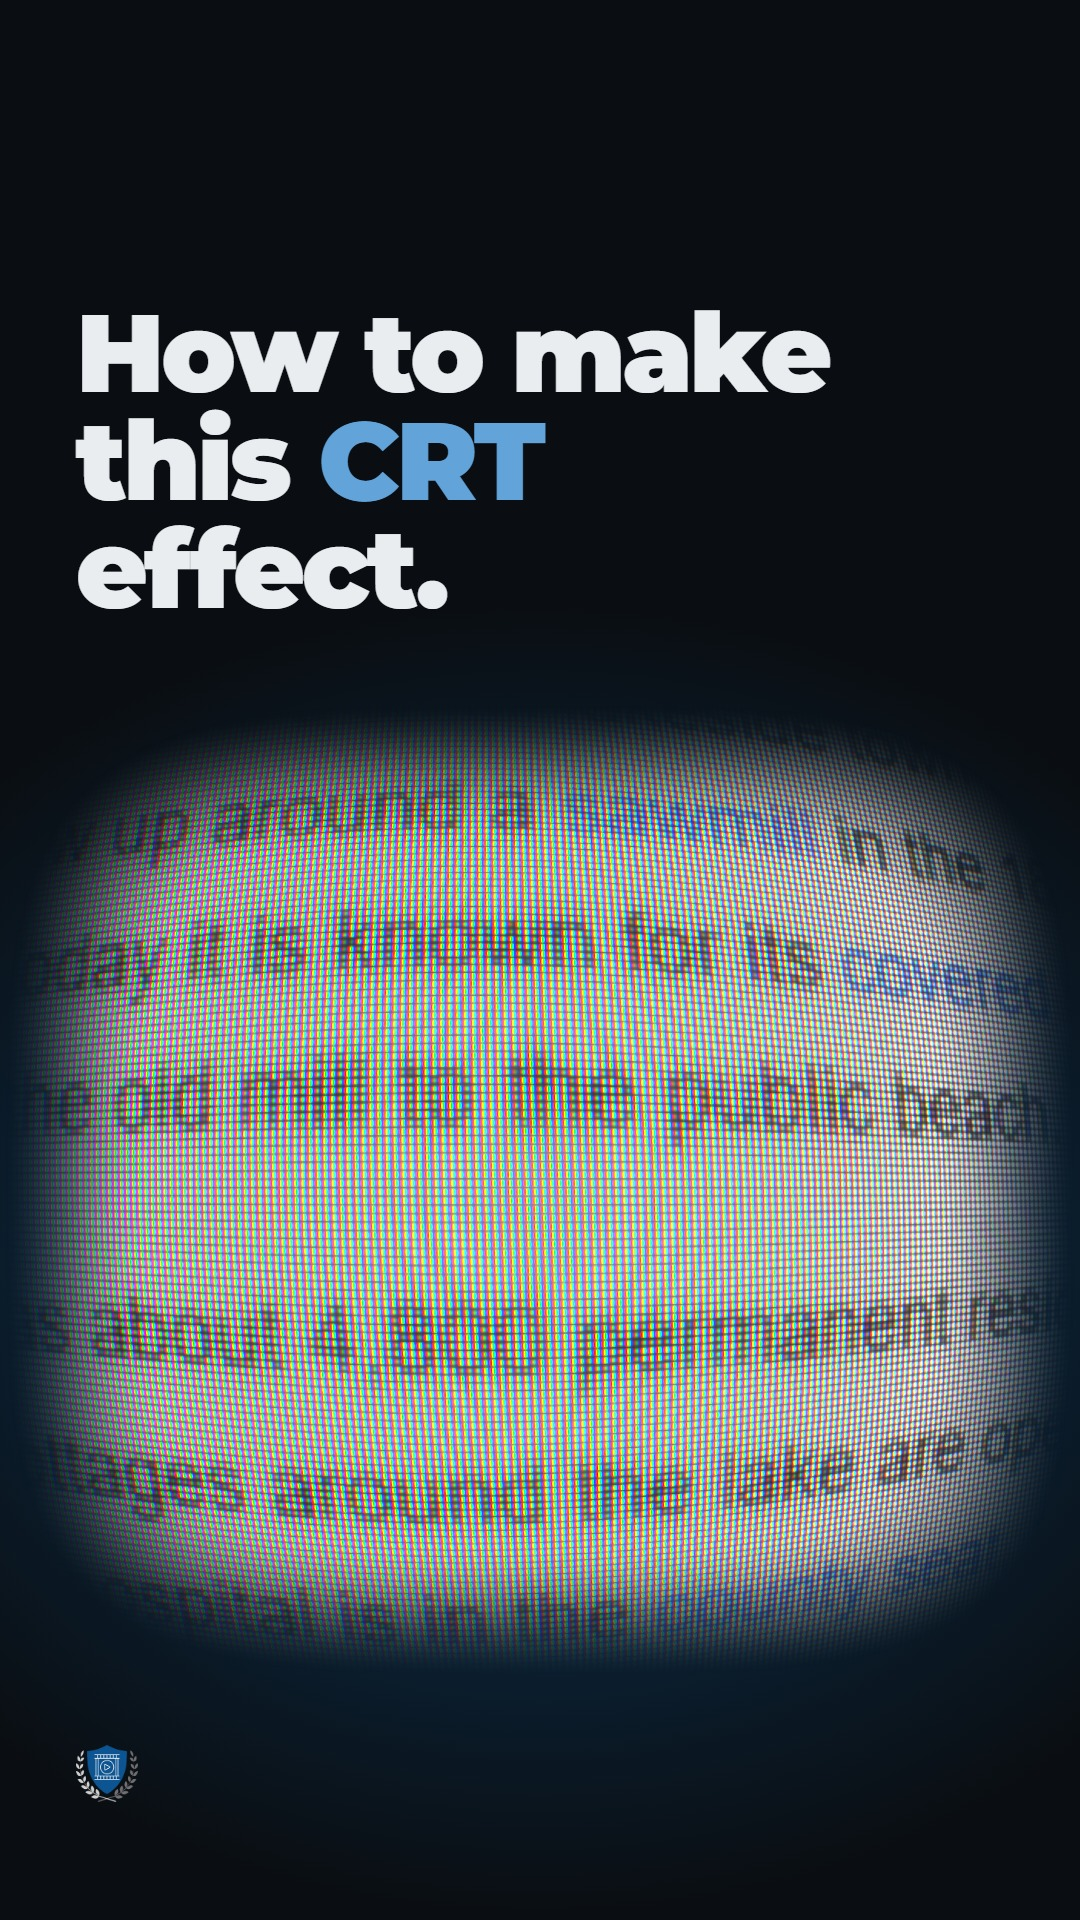
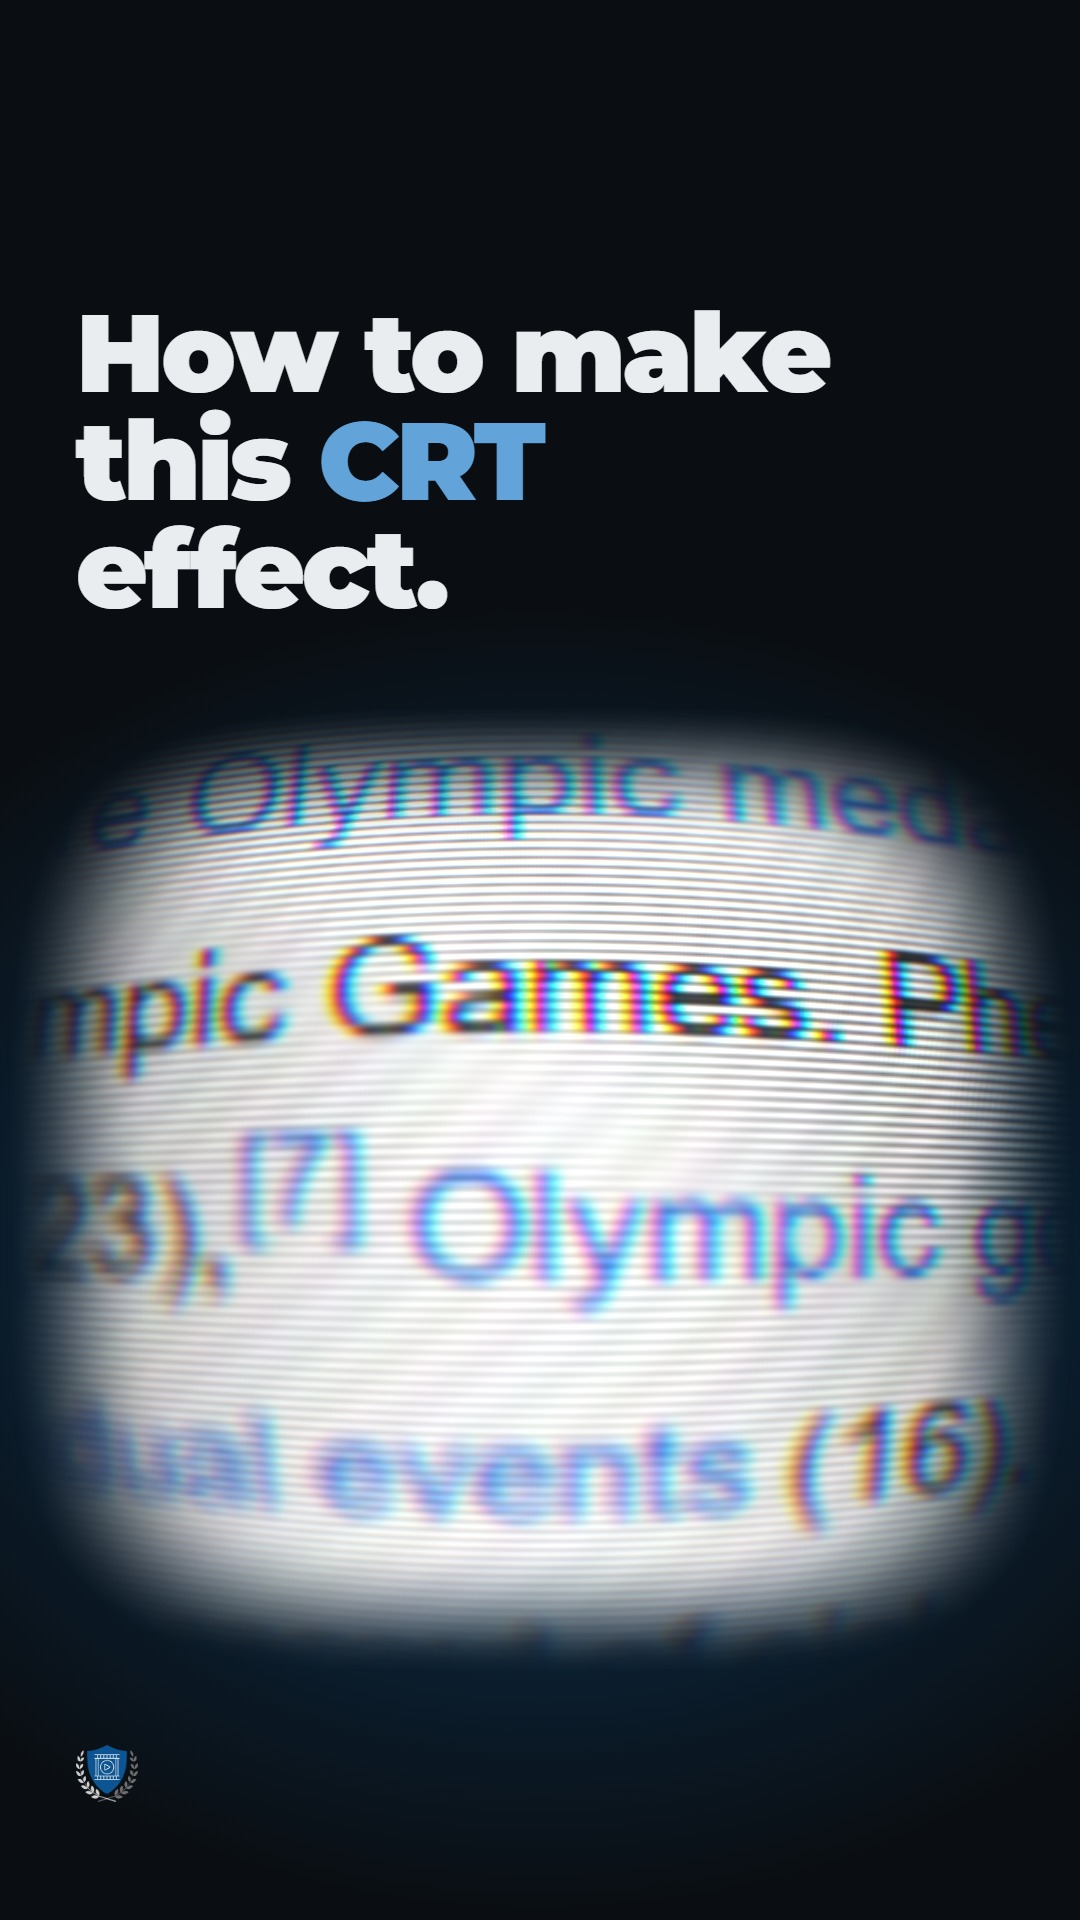
Tellybox ad 1 cover: his own CRT frame, cropped

diff --git a/art/covers/covers.py b/art/covers/covers.py
@@ -204,8 +204,9 @@ COVERS = [
     # Tellybox ad 3 (the no-voice retro logo split screen, 2026-11-02): the ad's palm logo through Tellybox itself
     # (tellybox/marketing/ad3/cover_art.py); the headline is its caption's "turn any graphic into a real CRT screen".
     dict(slug="tellybox-ad3", hero=picture("tellybox-ad3-art.png"), headline="Any graphic,<br>on a real<br><em>CRT.</em>"),
-    # Tellybox ad 1 (his on-camera CRT how-to, 2026-10-31): the Field Guide test page through Tellybox itself (CRT, Pixel Size 3,
-    # Zoom 1.9, a tilt and Lens Bulge 0.3, edges faded into the ground); the headline is the ad's own hook.
+    # Tellybox ad 1 (his on-camera CRT how-to, 2026-10-31): a frame of the ad's own finished CRT shot, the Olympic page lines,
+    # cropped and faded into the ground. The one cover made from an ad frame, Anthony's pick on 2026-11-03 after four drawn ones:
+    # the frame he chose has no caption and no face, which is what the rule guards. The headline is the ad's own hook.
     dict(slug="tellybox-ad1", hero=picture("tellybox-ad1-art.png"), headline="How to make<br>this <em>CRT</em><br>effect."),
 ]
 
